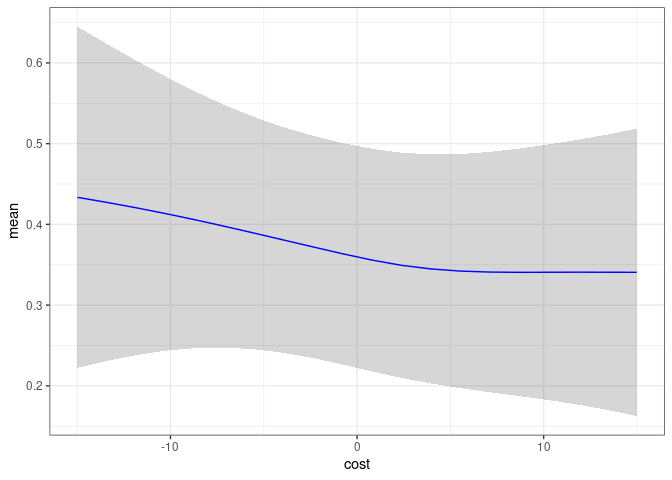
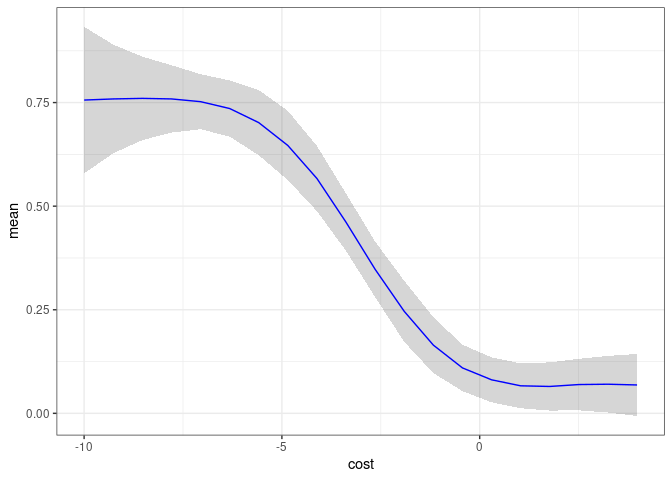
update readme

diff --git a/README.md b/README.md
@@ -35,26 +35,26 @@ The project dependencies can be installed via
 library("renv")
 ```
 
-    ## 
-    ## Attaching package: 'renv'
+    FALSE 
+    FALSE Attaching package: 'renv'
 
-    ## The following object is masked from 'package:stats':
-    ## 
-    ##     update
+    FALSE The following object is masked from 'package:stats':
+    FALSE 
+    FALSE     update
 
-    ## The following objects are masked from 'package:utils':
-    ## 
-    ##     history, upgrade
+    FALSE The following objects are masked from 'package:utils':
+    FALSE 
+    FALSE     history, upgrade
 
-    ## The following objects are masked from 'package:base':
-    ## 
-    ##     load, remove
+    FALSE The following objects are masked from 'package:base':
+    FALSE 
+    FALSE     load, remove
 
 ``` r
 renv::restore()
 ```
 
-    ## * The library is already synchronized with the lockfile.
+    FALSE * The library is already synchronized with the lockfile.
 
 ## Quick Start
 
@@ -110,9 +110,12 @@ library(e1071)
     ##     impute
 
 ``` r
+library(BBmisc)
+library(data.table)
+
 par.set = makeParamSet(
-  makeNumericParam("cost", -15, 15, trafo = function(x) 2^x),
-  makeNumericParam("gamma", -15, 15, trafo = function(x) 2^x)
+  makeNumericParam("cost", -10, 4, trafo = function(x) 2^x),
+  makeNumericParam("gamma", -10, 4, trafo = function(x) 2^x)
 )
 
 ctrl = makeMBOControl()
@@ -135,13 +138,13 @@ We are computing the PDP estimate with confidence for hyperparameter
 `cost`. We use the `marginal_effect_sd_over_mean` function, which uses
 the `iml` packages.
 
-    ##         cost      mean         sd
-    ## 1 -14.982900 0.4334600 0.10780414
-    ## 2 -13.405465 0.4271929 0.10016707
-    ## 3 -11.828030 0.4204815 0.09301408
-    ## 4 -10.250595 0.4132970 0.08657514
-    ## 5  -8.673160 0.4056233 0.08106157
-    ## 6  -7.095725 0.3975385 0.07662969
+    ##        cost      mean         sd
+    ## 1 -9.998318 0.7561011 0.09025358
+    ## 2 -9.262719 0.7588126 0.06684826
+    ## 3 -8.527120 0.7601592 0.05138241
+    ## 4 -7.791522 0.7588288 0.04146937
+    ## 5 -7.055923 0.7522169 0.03390507
+    ## 6 -6.320325 0.7356426 0.03462486
 
 We visualize the outcome:
 
@@ -165,27 +168,19 @@ tree = compute_tree(effects, data, "SS_L2", 2)
 ```
 
     ## Loading required package: customtrees
-
-    ## 
-    ## Attaching package: 'customtrees'
-
-    ## The following objects are masked _by_ '.GlobalEnv':
-    ## 
-    ##     adjust_nsplits, adjust_split_point, find_best_binary_split,
-    ##     generate_node_index, generate_split_candidates, get_closest_point,
-    ##     perform_split, split_parent_node
+    ## Loading required package: customtrees
+    ## Loading required package: customtrees
 
 We now want to visualize the PDP in the node with the best objective
 after 3 splits.
 
 ``` r
-predictor = Predictor$new(model = surrogate, data = data)
-effects = FeatureEffect$new(predictor = predictor, feature = "cost", method = "pdp")
-
-tree = compute_tree(effects, data, "SS_L2", 2)
+plot_pdp_for_node(node = tree[[2]][[2]], testdata = data, model = surrogate, pdp.feature = "cost", grid.size = 20)
 ```
+
+![](README_files/figure-gfm/unnamed-chunk-7-1.png)<!-- -->
 
 ## Reproduce Experiments
 
 The steps necessary to reproduce the experiments are described
-[here](benchmarks/README.Rmd).
+[here](benchmarks/README.md).
